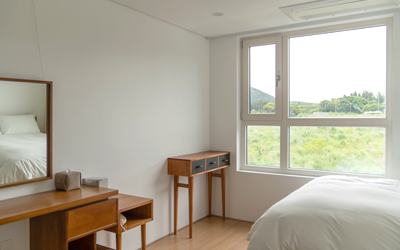
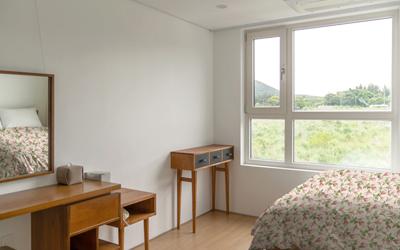
Add files via upload

diff --git a/index.html b/index.html
@@ -38,7 +38,7 @@
 
 
     <div class="fixed"> <!--예약하기 고정 s-->
-        <a href="../seasonery_sub03/index.html">
+        <a href="https://chu2e.github.io/seasonery_sub3/">
             <img src="images/fixed_booknow2.png" alt="픽스 예약하기">
             <img src="images/fixed_booknow_rotate.png" alt="픽스 예약하기 회전" class="fixed_rotate">
         </a>
@@ -51,7 +51,7 @@
 
         <div class="header"> <!--header s-->
 
-            <a href="../seasonery/index.html" class="symbol">
+            <a href="https://chu2e.github.io/seasonery/" class="symbol">
                 <img src="images/symbol.png" alt="심볼">
             </a>
 
@@ -72,24 +72,24 @@
 
             <ul class="nav">
                 <li> <!--부모-->
-                    <a href="../seasonery_sub01/index.html">ABOUT</a> <!--자식이지만 자기 자체가 부모-->
+                    <a href="https://chu2e.github.io/seasonery_sub1/">ABOUT</a> <!--자식이지만 자기 자체가 부모-->
                     <div class="sub1"> <!--자식2-->
                         <ul>
-                            <li><a href="../seasonery_sub01/index.html">Story</a></li>
+                            <li><a href="https://chu2e.github.io/seasonery_sub1/">Story</a></li>
                             <li><a href="#">For season</a></li>
                         </ul>
                     </div>
                 </li>
-                <li><a href="index.html">ROOM</a>
+                <li><a href="https://chu2e.github.io/seasonery_sub2/">ROOM</a>
                     <div class="sub2">
                         <ul>
-                            <li><a href="index.html">Flowery</a></li>
+                            <li><a href="https://chu2e.github.io/seasonery_sub2/">Flowery</a></li>
                             <li><a href="#">Greenery</a></li>
                         </ul>
                     </div>
                 </li>
-                <li><a href="../seasonery_sub03/index.html">RESERVATION</a></li>
-                <li><a href="../seasonery_sub04/index.html">SHOP</a></li>
+                <li><a href="https://chu2e.github.io/seasonery_sub3/">RESERVATION</a></li>
+                <li><a href="https://chu2e.github.io/seasonery_sub4/">SHOP</a></li>
             </ul>
 
         </div> <!--header f-->
@@ -151,12 +151,13 @@
             <div class="swiper-wrapper">
               <div class="swiper-slide"><img src="images/con1_slide1.jpg" alt="con1 슬라이드 이미지1"></div>
               <div class="swiper-slide"><img src="images/con1_slide2.jpg" alt="con1 슬라이드 이미지2"></div>
-              <div class="swiper-slide"><img src="images/con1_slide4.jpg" alt="con1 슬라이드 이미지3"></div>
+              <div class="swiper-slide"><img src="images/con1_slide6.jpg" alt="con1 슬라이드 이미지3"></div>
               <div class="swiper-slide"><img src="images/con1_slide3.jpg" alt="con1 슬라이드 이미지4"></div>
-              <div class="swiper-slide"><img src="images/con1_slide5.jpg" alt="con1 슬라이드 이미지5"></div>
-              <div class="swiper-slide"><img src="images/con1_slide6.jpg" alt="con1 슬라이드 이미지6"></div>
-              <div class="swiper-slide"><img src="images/con1_slide7.jpg" alt="con1 슬라이드 이미지7"></div>
-              <div class="swiper-slide"><img src="images/con1_slide8.jpg" alt="con1 슬라이드 이미지8"></div>
+              <div class="swiper-slide"><img src="images/con1_slide9.jpg" alt="con1 슬라이드 이미지5"></div>
+              <div class="swiper-slide"><img src="images/con1_slide5.jpg" alt="con1 슬라이드 이미지6"></div>
+              <div class="swiper-slide"><img src="images/con1_slide4.jpg" alt="con1 슬라이드 이미지7"></div>
+              <div class="swiper-slide"><img src="images/con1_slide7.jpg" alt="con1 슬라이드 이미지8"></div>
+              <div class="swiper-slide"><img src="images/con1_slide8.jpg" alt="con1 슬라이드 이미지9"></div>
             </div>
             <!-- 화살표 버튼 -->
             <div class="swiper-button-next"></div>
@@ -257,7 +258,7 @@
     <div id="con3_wrap"> <!--con3 침실 상단 s-->
 
         <div class="con3_left">
-            <img src="images/con3_img1.jpg" alt="">
+            <!--con3 침실 상단 이미지 애니메이션-->
         </div>
 
 
@@ -308,18 +309,21 @@
             
             <div class="con3_right2"> <!--con3 하단 오른쪽 이미지 슬라이드 s-->
                 <ul>
-                    <li><a href="#">
-                        <img src="images/con3_slide1.jpg" alt="con3 슬라이드 이미지1">
-                    </a></li>
-                    <li><a href="#">
-                        <img src="images/con3_slide2.jpg" alt="con3 슬라이드 이미지2">
-                    </a></li>
-                    <li><a href="#">
-                        <img src="images/con3_slide3.jpg" alt="con3 슬라이드 이미지3">
-                    </a></li>
-                    <li><a href="#"></a></li>
-                    <li><a href="#"></a></li>
-                    <li><a href="#"></a></li>
+                    <li>
+                        <img src="images/con3_slide4.jpg" alt="con3 슬라이드 이미지1">
+                    </li>
+                    <li>
+                        <img src="images/con3_slide3.jpg" alt="con3 슬라이드 이미지2">
+                    </li>
+                    <li>
+                        <img src="images/con3_slide1.jpg" alt="con3 슬라이드 이미지3">
+                    </li>
+                    <li>
+                        <img src="images/con3_slide5.jpg" alt="con3 슬라이드 이미지4">
+                    </li>
+                    <li>
+                        <img src="images/con3_slide2.jpg" alt="con3 슬라이드 이미지5">
+                    </li>
                 </ul>
             </div> <!--con3 하단 오른쪽 이미지 슬라이드 s-->
 
@@ -376,17 +380,17 @@
         <div class="footer_inner"> <!--footer inner s-->
 
             <div class="footer_symbol"> <!--로고 s-->
-                <a href="../seasonery/index.html">
+                <a href="https://chu2e.github.io/seasonery/">
                     <img src="images/footer_symbol.png" alt="푸터 심볼">
                 </a>
                 <img src="images/footer_logotype.png" alt="푸터 로고타입" class="footer_logotype">
             </div> <!--로고 f-->
 
             <ul class="footer_link"> <!--nav s-->
-                <li><a href="../seasonery_sub01/index.html">STORY</a></li>
-                <li><a href="index.html">ROOM Flowery</a></li>
-                <li><a href="../seasonery_sub03/index.html">RESERVATION</a></li>
-                <li><a href="../seasonery_sub04/index.html">SHOP</a></li>
+                <li><a href="https://chu2e.github.io/seasonery_sub1/">STORY</a></li>
+                <li><a href="https://chu2e.github.io/seasonery_sub2/">ROOM Flowery</a></li>
+                <li><a href="https://chu2e.github.io/seasonery_sub3/">RESERVATION</a></li>
+                <li><a href="https://chu2e.github.io/seasonery_sub4/">SHOP</a></li>
             </ul>
 
             <ul class="footer_link link2">

diff --git a/css/style.css b/css/style.css
@@ -706,9 +706,15 @@ background:url(../images/4.png) no-repeat;
   width: 820px;
   height: 100%;
   float: left;
+  animation: fade ease 30s infinite forwards;
+  background: url(../images/con3_img1.jpg) no-repeat top center;
 }
-.con3_left img{
-  display: block; /*이미지 고유의 여백 제거*/
+@keyframes fade {
+  0%{background: url(../images/con3_img1.jpg) no-repeat top center;}  
+  22%{background: url(../images/con3_img2.jpg) no-repeat top center;}  
+  44%{background: url(../images/con3_img5.jpg) no-repeat top center;}  
+  66%{background: url(../images/con3_img3.jpg) no-repeat top center;}  
+  88%{background: url(../images/con3_img4.jpg) no-repeat top center;}   
 }
 
 
@@ -722,7 +728,7 @@ background:url(../images/4.png) no-repeat;
   width: 1320px;
   height: 100%;
   margin: 0 auto;
-  overflow: hidden;
+  overflow: hidden; /*튀어나간 부분 잘리게*/
 }
 .con3_left2{ /*con2 하단 왼쪽 내용*/
   width: 360px;
@@ -750,7 +756,7 @@ background:url(../images/4.png) no-repeat;
   float: right;
 }
 .con3_right2 ul{
-  width: 2500px;
+  width: 2080px;
   height: 100%;
   display: flex;
   justify-content: space-between;
